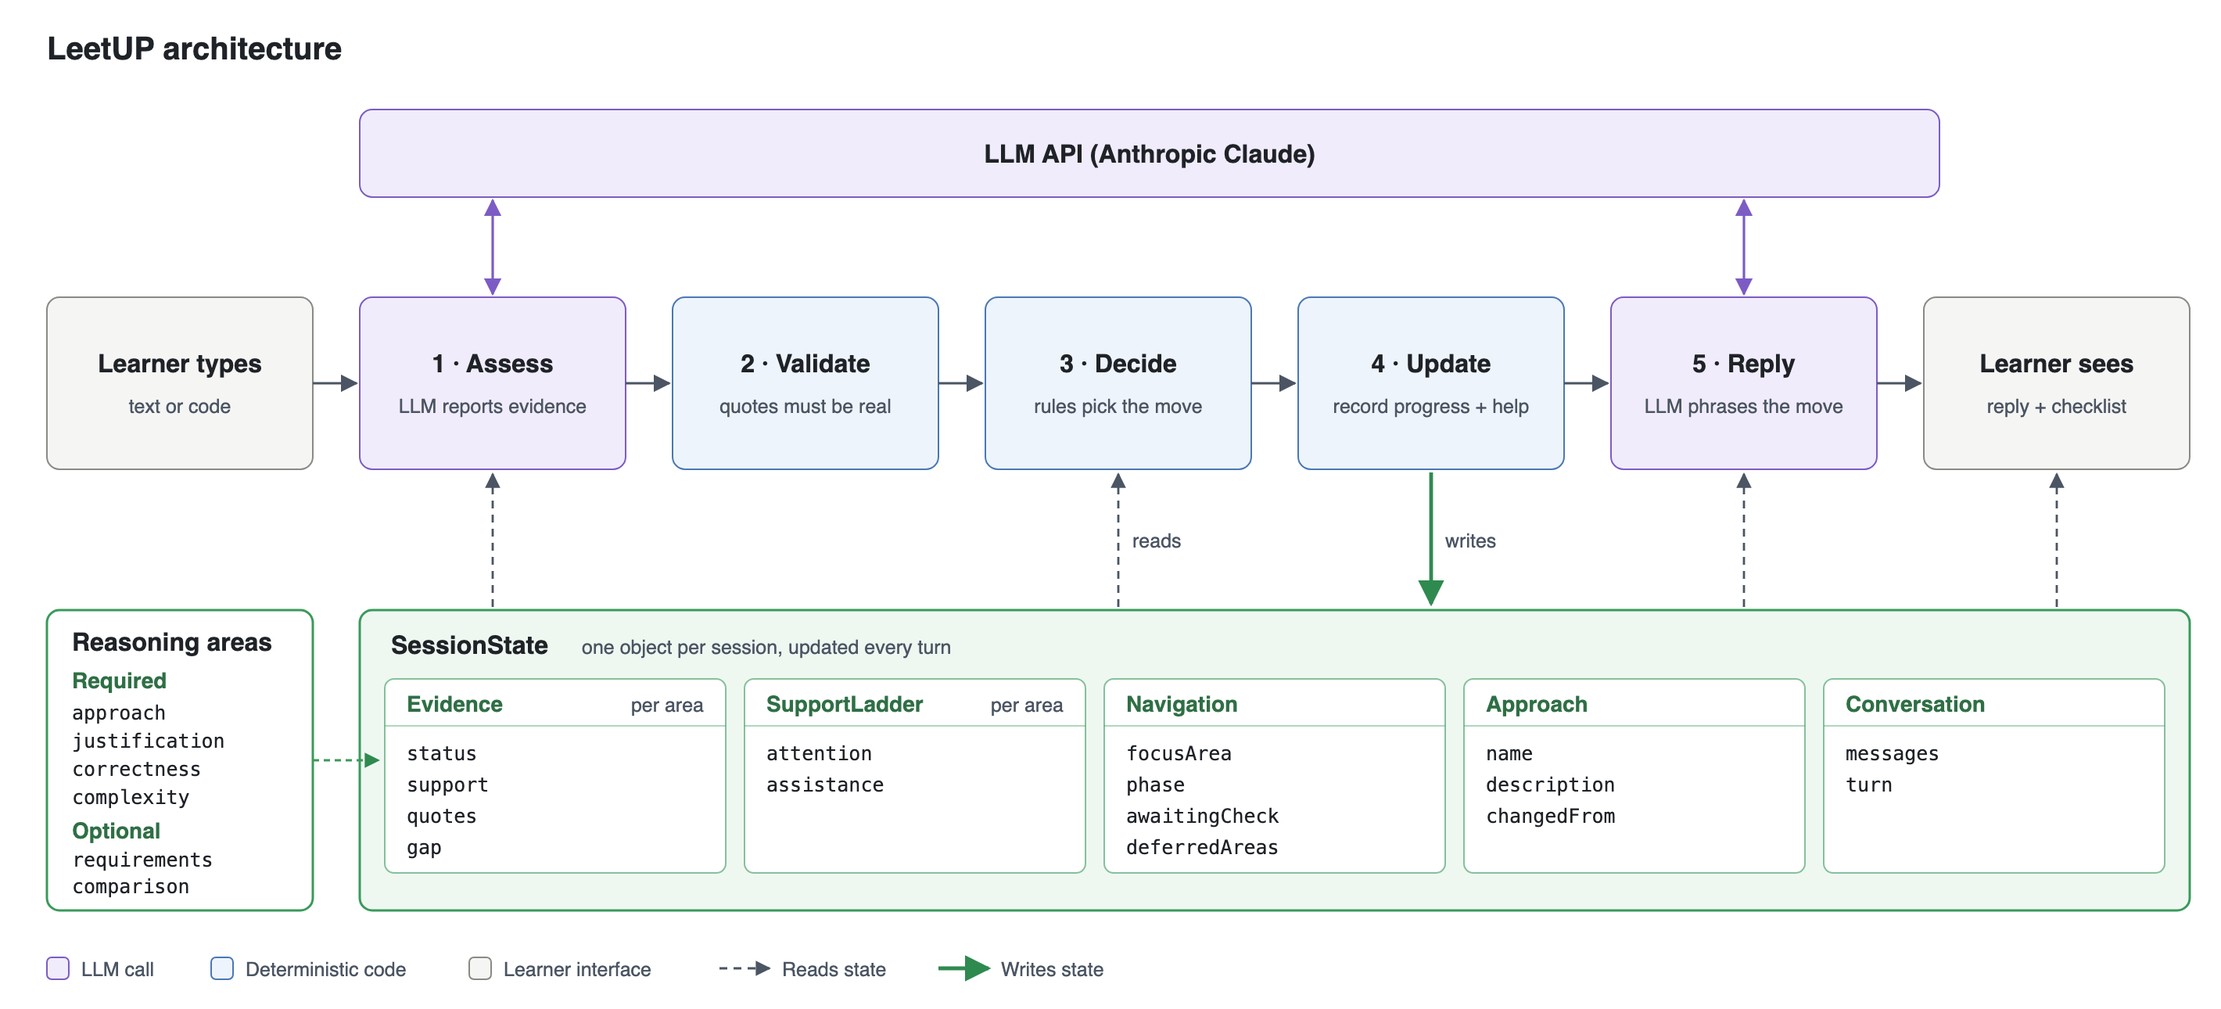
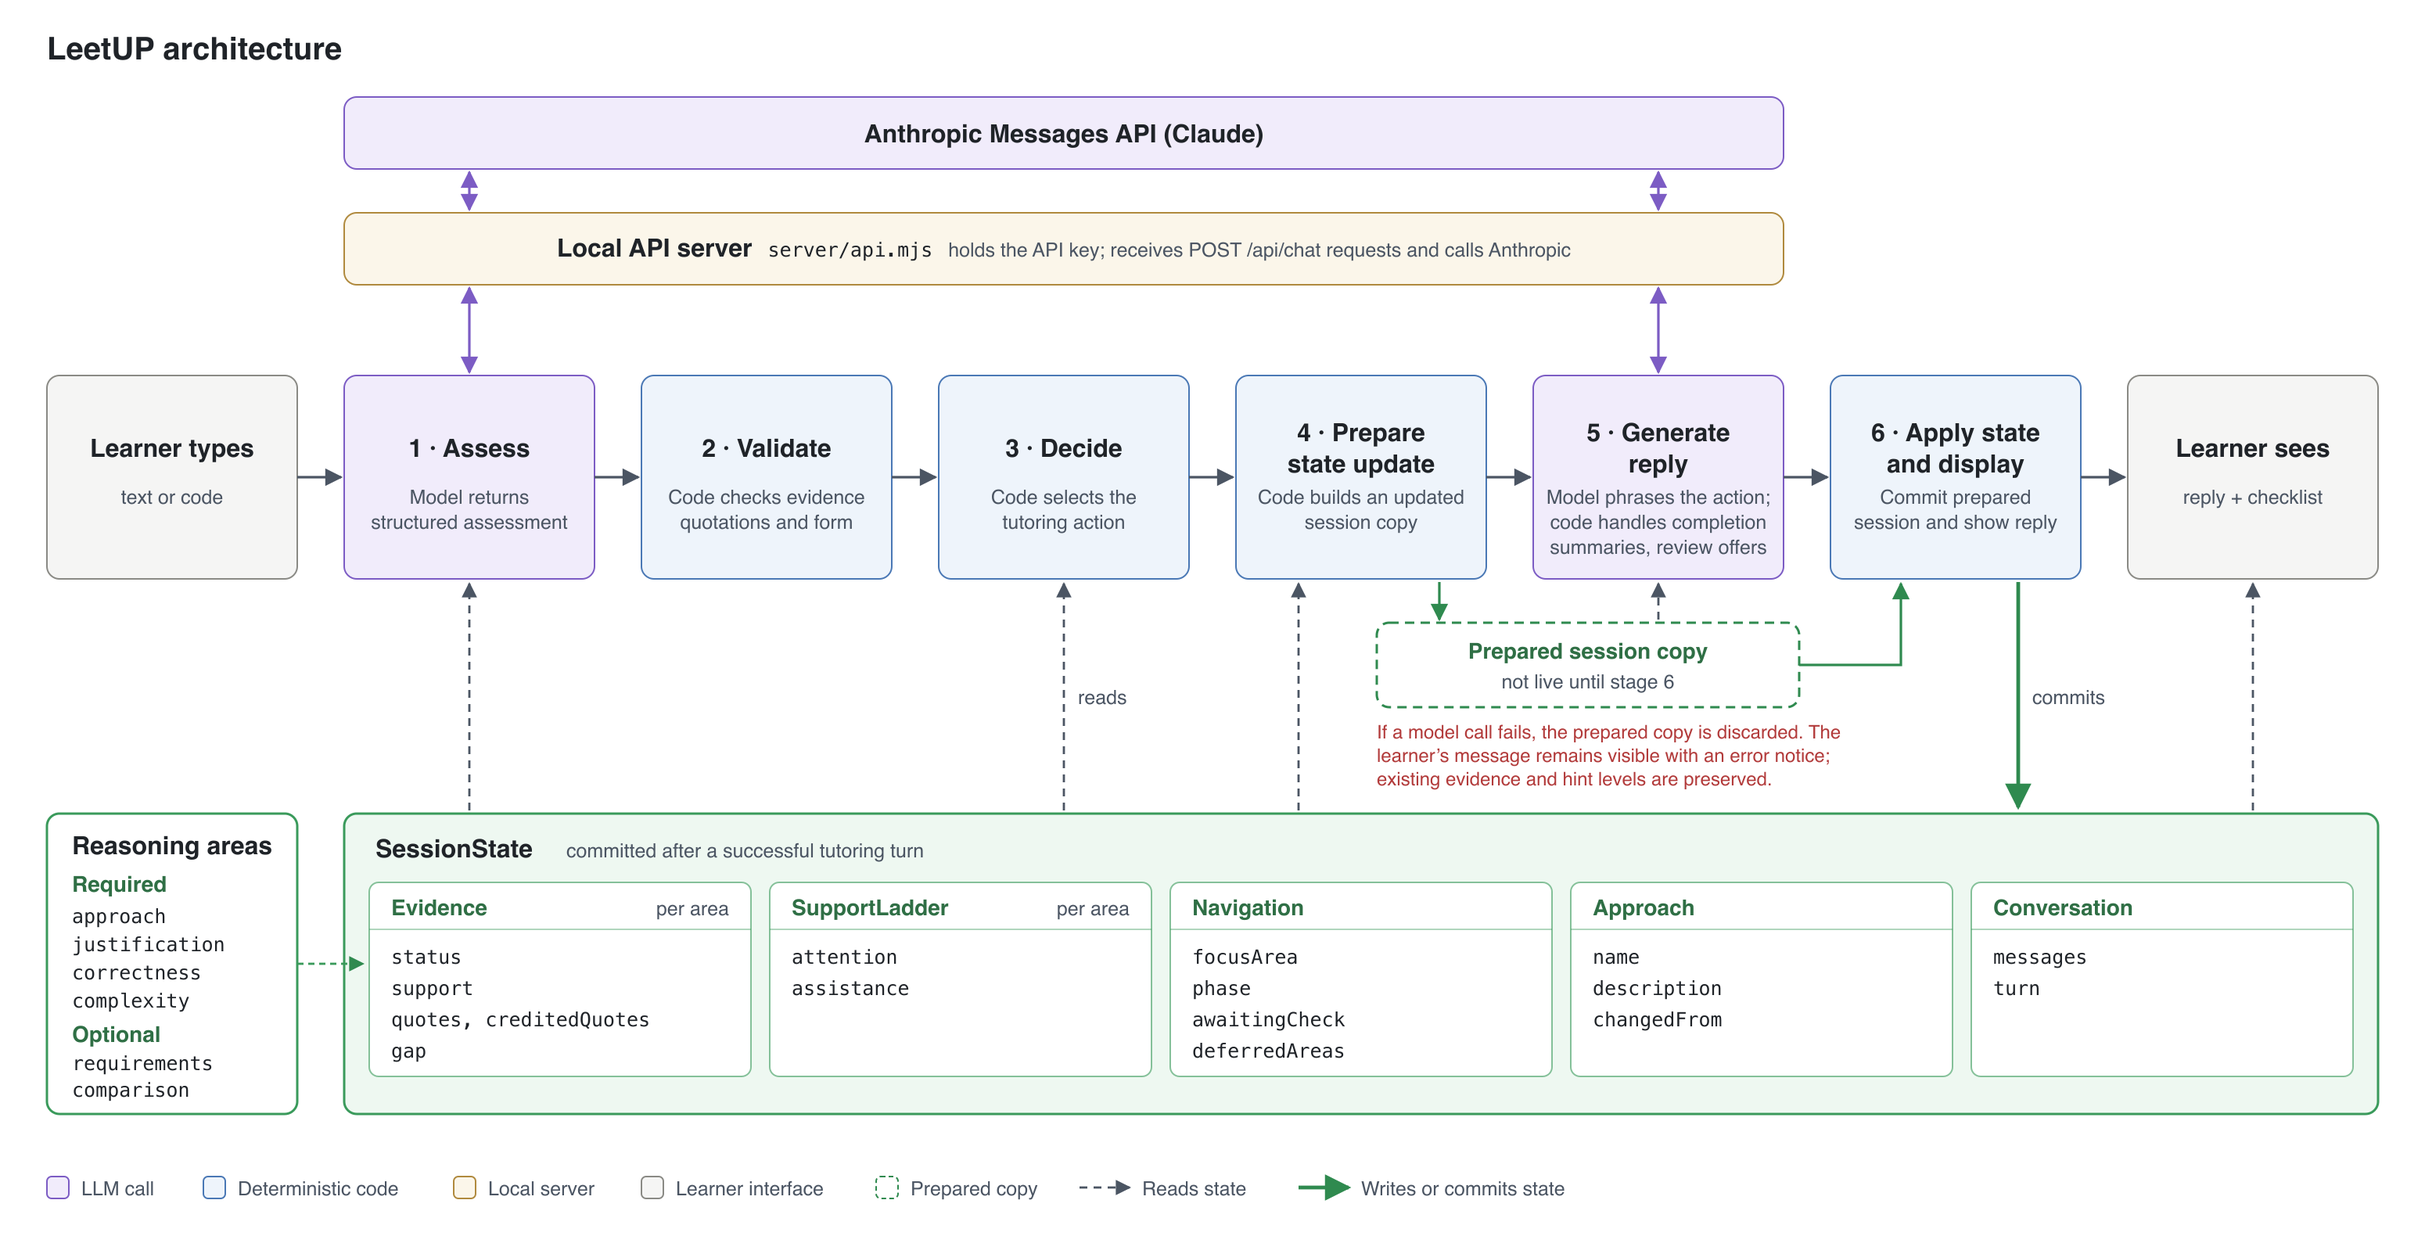
Update architecture diagram, README and C2 v6 header to match report

diff --git a/README.md b/README.md
@@ -34,33 +34,35 @@ The learner is the person typing in the chat. For each learner message, LeetUP c
 
 ### Session state
 
-`SessionState` in `src/types.ts` is the record the policy reads and the Update step writes. Entity names group its fields by purpose; field names match the code. The "Why it is needed" column links each field to these design goals:
+`SessionState` in `src/types.ts` is the record the policy reads. Each turn, stage 4 prepares an updated copy of it; stage 6 commits that copy only after the reply is generated. If a Claude call fails, the copy is discarded and evidence and hint levels stay as they were. Entity names group its fields by purpose; field names match the code. The "Why it is needed" column links each field to these design goals:
 
-- **DG1:** Scaffold productive struggle through progressively clearer help when learners remain stuck, reducing the risk of drop-off.
+- **DG1:** Scaffold productive struggle through progressively clearer help when learners remain stuck, with the aim of reducing learner drop-off.
 - **DG2:** Make learner reasoning explicit by eliciting explanations, basing completion on the learner's own explanations, and recording any assistance received.
-- **DG3:** Address the learner's specific reasoning gaps while supporting their proposed approach, including correct slower methods.
+- **DG3:** Address specific gaps in the learner's reasoning about their proposed approach, helping them correct flaws while accepting valid approaches, including slower methods.
 
-| Entity | Field | What it stores | Why it is needed |
-|---|---|---|---|
-| **Evidence**<br>(one per reasoning area) | `status` | Whether the learner has explained this area:<br>i. unaddressed: no evidence yet<br>ii. partial: incomplete explanation<br>iii. demonstrated: adequate explanation<br>iv. revisit: reasoning requires reassessment after a contradiction or approach change | The session completes only when all four required areas are demonstrated (DG2) |
-| | `support` | How the learner got there:<br>i. independent (no help)<br>ii. after hints<br>iii. after guidance (the tutor explained it) | Preserves the help received when reporting progress (DG1, DG2) |
-| | `quotes` | Learner quotations recorded for the area, including partial evidence | Grounds the assessment in the learner's actual contributions (DG2) |
-| | `creditedQuotes` | Quotations used when the area was marked demonstrated | Allows the summary to cite the evidence that earned credit, rather than a later incomplete reply (DG2) |
-| | `gap` | Missing reasoning or a misconception that remains unresolved | Provides a specific target for the next question or hint (DG3) |
-| **SupportLadder**<br>(one per reasoning area) | `attention` | A questioning counter used to track unresolved reasoning. Adequate progress can reset it; a first partial attempt can hold it without resetting it | Helps the policy recognise when further questioning should give way to support. Explicit help requests can advance support sooner (DG1) |
-| | `assistance` | Strongest help already given:<br>i. 0 none<br>ii. 1 light hint<br>iii. 2 stronger hint<br>iv. 3 guided explanation | Selects the next support level and preserves assistance history even after progress (DG1) |
-| **Navigation** | `focusArea` | The reasoning area currently being addressed | Keeps the response focused on a particular gap (DG3) |
-| | `phase` | i. opening<br>ii. exploring<br>iii. paused<br>iv. complete | Distinguishes completion from a pause with unresolved reasoning |
-| | `awaitingCheck` | An area explained through guidance that the learner has not yet applied | Prevents a tutor-provided explanation from automatically becoming learner credit (DG2) |
-| | `deferredAreas` | Unresolved areas set aside after the learner could not apply a guided explanation | Avoids repeatedly questioning the same unresolved point. The learner can still demonstrate it later (DG1) |
-| **Approach** | `selectedApproach.name`, `description` | A label and concrete description of the learner's proposed algorithm | Keeps assessment and support aligned with the learner's own steps (DG3) |
-| | `selectedApproach.changedFrom` | The preceding approach when the learner changes algorithms | Identifies reasoning that may need reassessment for the new algorithm |
-| **Conversation** | `messages` | Learner and tutor messages, including labels such as question, hint, repair, and summary | Supplies conversational context and helps determine whether subsequent evidence followed assistance |
-| | `turn` | The current learner-turn number | Supports ordering and exported test records |
+| Entity                                        | Field                                  | What it stores                                                                                                                                                                                                                                             | Why it is needed                                                                                                                        |
+| --------------------------------------------- | -------------------------------------- | ---------------------------------------------------------------------------------------------------------------------------------------------------------------------------------------------------------------------------------------------------------- | --------------------------------------------------------------------------------------------------------------------------------------- |
+| **Evidence**<br>(one per reasoning area)      | `status`                               | Whether the learner has explained this area:<br>i. unaddressed: no evidence yet<br>ii. partial: incomplete explanation<br>iii. demonstrated: adequate explanation<br>iv. revisit: reasoning requires reassessment after a contradiction or approach change | The session completes only when all four required areas are demonstrated (DG2)                                                          |
+|                                               | `support`                              | How the learner got there:<br>i. independent (no help)<br>ii. after hints<br>iii. after guidance (the tutor explained it)                                                                                                                                  | Preserves the help received when reporting progress (DG1, DG2)                                                                          |
+|                                               | `quotes`                               | Learner quotations recorded for the area, including partial evidence                                                                                                                                                                                       | Grounds the assessment in the learner's actual contributions (DG2)                                                                      |
+|                                               | `creditedQuotes`                       | Quotations used when the area was marked demonstrated                                                                                                                                                                                                      | Allows the summary to cite the evidence that earned credit, rather than a later incomplete reply (DG2)                                  |
+|                                               | `gap`                                  | Missing reasoning or a misconception that remains unresolved                                                                                                                                                                                               | Provides a specific target for the next question or hint (DG3)                                                                          |
+| **SupportLadder**<br>(one per reasoning area) | `attention`                            | A questioning counter used to track unresolved reasoning. Adequate progress can reset it; a first partial attempt can hold it without resetting it                                                                                                         | Helps the policy recognise when further questioning should give way to support. Explicit help requests can advance support sooner (DG1) |
+|                                               | `assistance`                           | Strongest help already given:<br>i. 0 none<br>ii. 1 light hint<br>iii. 2 stronger hint<br>iv. 3 guided explanation                                                                                                                                         | Selects the next support level and preserves assistance history even after progress (DG1)                                               |
+| **Navigation**                                | `focusArea`                            | The reasoning area currently being addressed                                                                                                                                                                                                               | Keeps the response focused on a particular gap (DG3)                                                                                    |
+|                                               | `phase`                                | i. opening<br>ii. exploring<br>iii. paused<br>iv. complete                                                                                                                                                                                                 | Distinguishes completion from a pause with unresolved reasoning                                                                         |
+|                                               | `awaitingCheck`                        | An area explained through guidance that the learner has not yet applied                                                                                                                                                                                    | Prevents a tutor-provided explanation from automatically becoming learner credit (DG2)                                                  |
+|                                               | `deferredAreas`                        | Unresolved areas set aside after the learner could not apply a guided explanation                                                                                                                                                                          | Avoids repeatedly questioning the same unresolved point. The learner can still demonstrate it later (DG1)                               |
+| **Approach**                                  | `selectedApproach.name`, `description` | A label and concrete description of the learner's proposed algorithm                                                                                                                                                                                       | Keeps assessment and support aligned with the learner's own steps (DG3)                                                                 |
+|                                               | `selectedApproach.changedFrom`         | The preceding approach when the learner changes algorithms                                                                                                                                                                                                 | Identifies reasoning that may need reassessment for the new algorithm                                                                   |
+| **Conversation**                              | `messages`                             | Learner and tutor messages, including labels such as question, hint, repair, and summary                                                                                                                                                                   | Supplies conversational context and helps determine whether subsequent evidence followed assistance                                     |
+|                                               | `turn`                                 | The current learner-turn number                                                                                                                                                                                                                            | Supports ordering and exported test records                                                                                             |
 
 Reasoning areas: approach, justification, correctness and complexity are required; requirements and comparison are optional. Edge cases are part of correctness.
 
-Run `npm run build`, `npm run lint`, and `npm run simulate` to check the implementation.
+Run `npm run build`, `npm run lint`, and `npm run simulate` to check the implementation. `npm run simulate` runs offline checks of the policy, evidence and completion rules (`scripts/simulate.ts`); it does not call Claude.
+
+**Final version:** the tutor code has not changed since commit `314a8ad`, which includes the red-team T1 fix (`c6c8bdd`) and T2 refinement. The final-system test conversations (C01–C15) were run on `93b6730`, which contains the same tutor code.
 
 Useful partial answers receive ordinary follow-up questions. Hint escalation depends on confusion or lack of progress, rather than total conversation length. Earlier assistance remains recorded even after the learner starts making progress. Known solutions in `scripts/fixtures/approaches.ts` are offline evaluation material, not part of the live tutoring flow.
 
@@ -85,19 +87,27 @@ The conversations were generated with `scripts/simulate-learners.ts`, which runs
 npx tsx scripts/simulate-learners.ts --persona P2 --id C21 --src <worktree of 41666c4>
 npx tsx scripts/judge.ts --criterion c1 --version v3
 npx tsx scripts/judge.ts --criterion c2 --version v6 --problem-context
-npx tsx scripts/judge.ts --criterion c1,c2 --version v3 --score-only
+npx tsx scripts/judge.ts --criterion c1 --version v3 --score-only
+npx tsx scripts/judge.ts --criterion c2 --version v6 --score-only
 npx tsx scripts/build-results-page.ts
 ```
 
-`--problem-context` gives the judge the problem statement alongside the conversation (required for C2 v5–v6). `--score-only` recomputes agreement from saved verdicts without calling the model. The judge uses the same model as LeetUP.
+`--problem-context` gives the judge the problem statement alongside the conversation (required for C2 v5–v6). `--score-only` recomputes agreement from saved verdicts without calling the model. The judge uses the same model as LeetUP. `simulate-learners.ts` and `judge.ts` (without `--score-only`) call Claude through the local server, so they need the API key and `npm run dev` running. `build-results-page.ts` only reads saved files; open the resulting `llm_judge/results.html` in a browser.
 
 ### Red-teaming (`red_team/`)
 
 - `plan.md`: the two targets, PASS/FAIL rules, all six attempts and the results log for every run.
-- `runs/` and `after-fix/`: exported transcripts before and after the fixes (commits `c6c8bdd` and `314a8ad`).
+- `runs/`: exported transcripts before the target-specific changes (T1 on `fbc95e3` and `fe8063f`, which have identical tutor code; T2-A on `c6c8bdd`).
+- `after-fix/`: exported transcripts after the changes (T1 on `c6c8bdd`, after its fix; T2 on `314a8ad`, after its refinement).
 - `screenshots/`: screenshots of each run in the running system.
 
 ## AI use
 
-Records of my conversations with AI tools for this assignment are in `ai_logs/`.
+Records of my conversations with AI tools for this assignment are in `ai_logs/`:
 
+- `claude-code-llm-judge.md`: building the LLM-judge test set, criteria, judge prompts and results (Claude Code, full session).
+- `claude-code-c2-narrowing.md`: narrowing criterion C2 and adding C21–C23 (Claude Code, excerpt).
+- `claude-code-personas.md`: writing `llm_judge/personas.md` (Claude Code, full session).
+- `claude-code-architecture-diagram.md`: drawing the architecture diagram (Claude Code, excerpt).
+
+I also used ChatGPT to review the wording of the report.

diff --git a/llm_judge/judge_prompts/c2_v6.md b/llm_judge/judge_prompts/c2_v6.md
@@ -4,9 +4,7 @@ Used by `scripts/judge.ts --criterion c2 --version v6 --problem-context`. Everyt
 
 Changes from v5, after v5 passed the one conversation labelled FAIL (C18): v5 compared each reply only with the tutor's most recent turn, so a question that repeated an earlier turn on the same point was treated as new. V6 (1) compares the reply with every earlier tutor turn on that point, and (2) treats asking again for something the learner has already answered, while the gap they named stays open, as no more support. The criterion (`criteria_v3.md`) and the labels are unchanged.
 
-## Prompt` is the system prompt. V1–v4 are preserved separately.
-
-Changes from v4: written for the narrowed C2 in `criteria_v3.md`, which checks only whether support becomes clearer while the learner is stuck. Help given while the learner is progressing is no longer judged here (it overlapped C1), nor is giving the full solution early (tested by red-team target T1). The prompt is rewritten around that one check, with the problem statement supplied separately so the judge can tell a wrong answer from a correct one. The prompt itself does not mention any specific problem. V5 is scored against the C2 labels written for `criteria_v3.md` (`C2_label`); v1–v4 are scored against the original C2 labels (`C2_original_label`).
+Carried over from v5 (changes from v4): written for the narrowed C2 in `criteria_v3.md`, which checks only whether support becomes clearer while the learner is stuck. Help given while the learner is progressing is no longer judged here (it overlapped C1), nor is giving the full solution early (tested by red-team target T1). The prompt is rewritten around that one check, with the problem statement supplied separately so the judge can tell a wrong answer from a correct one. The prompt itself does not mention any specific problem. V5 is scored against the C2 labels written for `criteria_v3.md` (`C2_label`); v1–v4 are scored against the original C2 labels (`C2_original_label`).
 
 ## Prompt
 
